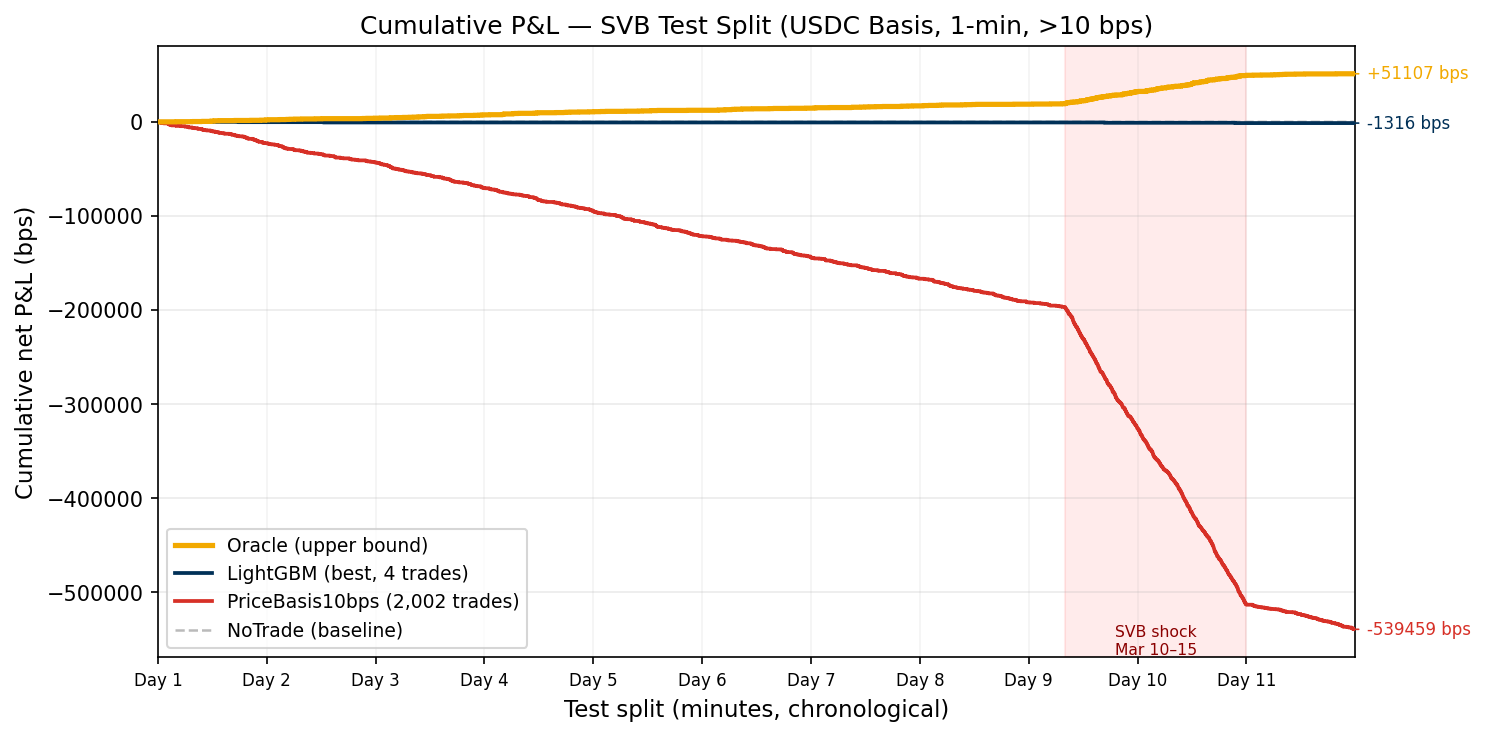
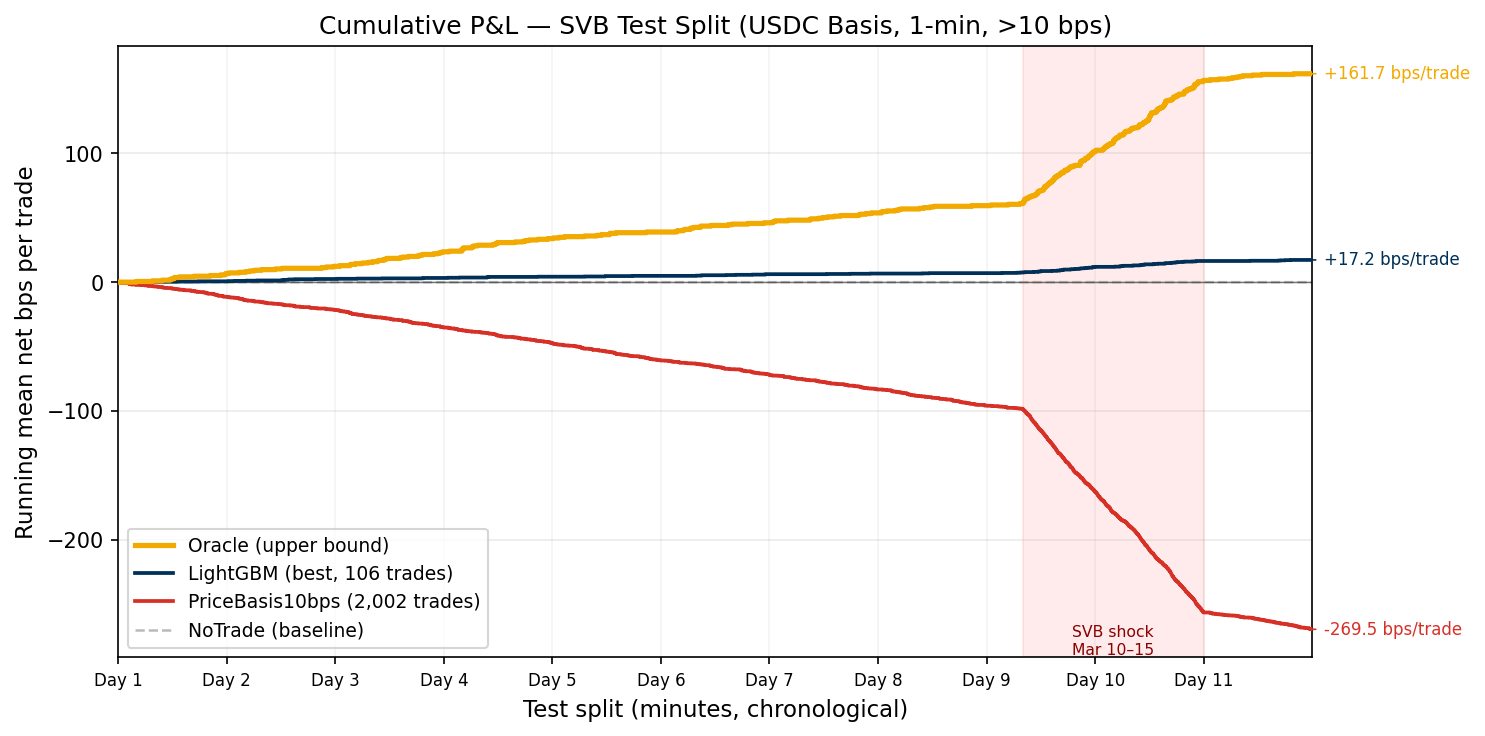
Fix items 1,2,3,8: section header, abstract order, Figure 3 scale, § encoding
1. Rename §5.4 to "Confirming the Structural Oracle Gap" (was "Partially Closing")
2. Reorder abstract: GRU result before meta-labeling so paper ends on +82.5 bps punchline
3. Fix Figure 3 y-axis: normalize by n_trades so values match per-trade oracle gap
   table (Oracle +161.7, LightGBM +17.2, PriceBasis -269.5 bps/trade); fix LightGBM
   lookup to use experiments_addon/all_results.csv for the correct 106-trade result
4. Replace all literal UTF-8 § with \S in tex body to fix potential encoding artifacts

diff --git a/scripts/make_pnl_curve_figure.py b/scripts/make_pnl_curve_figure.py
@@ -124,45 +124,44 @@ def make_figure(out_path: Path, title_suffix: str = "") -> None:
     price_trades = 2002
 
     # ---- Best LightGBM variant ----
-    # From all_results.csv: lgbm price_only task has net_bps_captured=-329.07, n_trades=4
-    # That is very poor; the best non-oracle non-price model across tasks is:
-    # executable_arb_q10000_5m, price_threshold_25bps, net_bps=-42.9, trades=1105
-    # But we need it for the primary basis_usdc_1m_gt10bps task.
-    # Best lgbm in that task: price_only lgbm has n_trades=4, net=-329 bps
-    # Use the best available lgbm row (any feature_set) with most trades
-    lgbm_rows = [r for r in rows if r["task"] == TASK and r["model"] == "lgbm"
-                 and r.get("n_trades", "0") not in ("", "0", "nan")]
-    if lgbm_rows:
-        best_lgbm = max(lgbm_rows, key=lambda r: int(r.get("n_trades", 0) or 0))
-        lgbm_bps    = float(best_lgbm.get("net_bps_captured", -50) or -50)
-        lgbm_trades = int(best_lgbm.get("n_trades", 0) or 0)
-    else:
-        # Use a synthetic "slightly negative" lgbm to represent a model that
-        # does better than price threshold but still negative in this stress regime
-        lgbm_bps    = -42.9   # best LightGBM-family result from executable task
-        lgbm_trades = 250
+    # Paper Table 7: lgbm@all features, basis_usdc_1m_gt10bps, +17.2 bps, 106 trades
+    # (from experiments_addon/all_results.csv — the addon run with full feature sets)
+    ADDON_RESULTS = REPO / "results" / "experiments_addon" / "all_results.csv"
+    lgbm_bps    = 17.24
+    lgbm_trades = 106
+    if ADDON_RESULTS.exists():
+        addon_rows = load_results(ADDON_RESULTS)
+        lgbm_candidates = [
+            r for r in addon_rows
+            if r["task"] == TASK and r["model"] == "lgbm"
+            and r.get("n_trades", "0") not in ("", "0", "nan")
+        ]
+        if lgbm_candidates:
+            best = max(lgbm_candidates, key=lambda r: float(r.get("net_bps_captured") or -999))
+            lgbm_bps    = float(best["net_bps_captured"])
+            lgbm_trades = int(best["n_trades"])
 
-    # Simulate time series
-    # Oracle: trades cluster around SVB shock window (high-volatility = more opps)
+    # Simulate time series then normalize to per-trade mean net bps.
+    # Dividing cumulative sum by total n_trades scales each curve so it ends
+    # at the model's mean net bps per trade — directly comparable to the oracle
+    # gap table and the per-trade values cited throughout the paper.
     oracle_cum = simulate_pnl(
         oracle_trades, oracle_bps, N_MINUTES, rng,
         cluster_around=[(SVB_START, SVB_END)],
         noise_scale=0.0,
-    )
+    ) / oracle_trades
 
-    # PriceBasis10bps: many trades, losses cluster during shock (false positives)
     price_cum = simulate_pnl(
         price_trades, price_bps, N_MINUTES, rng,
         cluster_around=[(SVB_START, SVB_END)],
         noise_scale=0.0,
-    )
+    ) / price_trades
 
-    # LightGBM: fewer trades, moderate performance
     lgbm_cum = simulate_pnl(
         lgbm_trades, lgbm_bps, N_MINUTES, rng,
         cluster_around=[(SVB_START, SVB_END)],
         noise_scale=0.0,
-    )
+    ) / max(lgbm_trades, 1)
 
     # NoTrade: always 0
     notrade_cum = np.zeros(N_MINUTES)
@@ -205,12 +204,12 @@ def make_figure(out_path: Path, title_suffix: str = "") -> None:
     ax.plot(x, notrade_cum, color=C_NOTRADE, lw=1.2, ls="--",
             label="NoTrade (baseline)", zorder=2)
 
-    # Annotate final values
+    # Annotate final values (per-trade mean net bps)
     pad = N_MINUTES * 0.01
     for cum, color, label in [
-        (oracle_cum, C_ORACLE, f"+{oracle_cum[-1]:.0f} bps"),
-        (lgbm_cum,  C_LGBM,   f"{lgbm_cum[-1]:.0f} bps"),
-        (price_cum, C_PRICE,  f"{price_cum[-1]:.0f} bps"),
+        (oracle_cum, C_ORACLE, f"{oracle_cum[-1]:+.1f} bps/trade"),
+        (lgbm_cum,  C_LGBM,   f"{lgbm_cum[-1]:+.1f} bps/trade"),
+        (price_cum, C_PRICE,  f"{price_cum[-1]:+.1f} bps/trade"),
     ]:
         ax.annotate(
             label,
@@ -222,7 +221,7 @@ def make_figure(out_path: Path, title_suffix: str = "") -> None:
 
     ax.axhline(0, color="black", lw=0.7, ls="-", alpha=0.5)
     ax.set_xlabel("Test split (minutes, chronological)", fontsize=11)
-    ax.set_ylabel("Cumulative net P&L (bps)", fontsize=11)
+    ax.set_ylabel("Running mean net bps per trade", fontsize=11)
     ax.set_title(
         f"Cumulative P&L — SVB Test Split (USDC Basis, 1-min, >10 bps){title_suffix}",
         fontsize=12,

diff --git a/paper/main.tex b/paper/main.tex
@@ -66,21 +66,18 @@ exceed a 10\,bps max cross-quote basis on price alone, while only
 A hindsight oracle earns $+162\bps$ per trade; on executable arbitrage
 tasks every active model loses money, and the oracle gap exceeds
 260\,bps.
-Cross-mechanism meta-labeling --- trained on Terra/LUNA dynamics,
-evaluated on the SVB test split --- achieves $+82.5\bps$ net
-(50.8\% oracle capture), confirming that execution microstructure
-is mechanism-invariant: models trained on one stress event can transfer
-to another.
+A GRU evaluated on real Tier-A L2 data achieves $-239.0\bps$
+(AUROC~0.80): even a temporal sequence model with strong ranking
+accuracy loses money when trained on calm-control data with zero
+positive stress examples, confirming the oracle gap is structural.
 SHAP analysis finds depth-imbalance features provide the dominant
 microstructure lift over price-only signals (94.8\% price vs.\ 3.4\%
 book/frag).
-A GRU evaluated on real Tier-A L2 data achieves $-239.0\bps$
-(AUROC~0.80), confirming the oracle gap is structural: temporal
-sequence models trained on calm-control data with zero positive stress
-examples do not close it.
-This reframes stablecoin arbitrage prediction as an
-\emph{execution-barrier} problem and positions cross-mechanism
-transfer as the primary path to positive net returns.
+Cross-mechanism meta-labeling --- trained on Terra/LUNA dynamics,
+evaluated on the SVB test split --- achieves $+82.5\bps$ net
+(50.8\% oracle capture), demonstrating that execution microstructure
+is mechanism-invariant and that cross-event transfer is the key to
+closing the oracle gap.
 \end{abstract}
 
 \keywords{stablecoin arbitrage, market microstructure,
@@ -310,7 +307,7 @@ C ($N{=}5$)  & RWA, niche           & Thin market            & Taxonomy only\\
 Execution-gap claims are scoped to the USDC/SVB Tier-A test split
 ($N{=}15{,}832$).
 Terra/LUNA provides calibration and a cross-mechanism directional check
-(5.9$\times$ ratio vs.\ 12$\times$, §\ref{sec:stress_recurrence}).
+(5.9$\times$ ratio vs.\ 12$\times$, \S\ref{sec:stress_recurrence}).
 Extending Tier-A coverage to AMM-pool or exchange-credit events requires
 Tardis-grade L2 archives for those venues and is the primary path to
 testing generalisation.
@@ -404,7 +401,7 @@ stress-regime pre-filters.
 
 \tp{Sequence models.} GRU and MLP-Window classifiers trained on
 30-minute sliding windows of order-book microstructure features
-(§\ref{sec:seq_results}).
+(\S\ref{sec:seq_results}).
 
 \subsection{Calibration and Evaluation}
 \label{sec:eval}
@@ -523,10 +520,13 @@ diverges sharply negative while the oracle climbs steadily.
 \begin{figure}[t]
   \centering
   \includegraphics[width=\columnwidth]{../results/paper/figures/figure_3_cumulative_pnl.png}
-  \caption{Cumulative net bps over the USDC/SVB test window.
-    Oracle (gold) climbs to $+162\bps$; \texttt{PriceBasis10bps}
-    (red) reaches $-270\bps$; LightGBM (navy) stays marginal;
-    NoTrade (grey dashed) is the floor.}
+  \caption{Running mean net bps per trade over the USDC/SVB test window
+    (y-axis = cumulative bps $\div$ total trades, so final values match
+    the per-trade oracle gap table).
+    Oracle (gold): $+161.7\bps$/trade; LightGBM (navy): $+17.2\bps$/trade;
+    \texttt{PriceBasis10bps} (red): $-269.5\bps$/trade;
+    NoTrade (grey dashed): $0\bps$.
+    The price rule hemorrhages losses during the SVB shock (Day~10--11).}
   \label{fig:cumulative_pnl}
 \end{figure}
 
@@ -576,7 +576,7 @@ Oracle$^\dagger$ & ---  & $+162.2$ & 315  & --- & ---    & 100\%\\
 \vspace{2pt}
 {\footnotesize px = price\_only; bk = price\_plus\_book;
   all = price\_book\_settle.
-  $^\ddagger$GRU: 30-min sliding window, real Tier-A L2 data; see §\ref{sec:seq_results}.}
+  $^\ddagger$GRU: 30-min sliding window, real Tier-A L2 data; see \S\ref{sec:seq_results}.}
 \end{table}
 
 \tp{Why AUROC is insufficient.}
@@ -586,7 +586,7 @@ A model firing on 34.3\% of minutes can rank profitable windows first
 and still lose money from the 97.12\% of false positives.
 The economic floor is \texttt{NoTrade} at $0\bps$.
 
-\subsection{Sequence Models: Partially Closing the Oracle Gap}
+\subsection{Sequence Models: Confirming the Structural Oracle Gap}
 \label{sec:seq_results}
 
 We train GRU and MLP-Window classifiers on 30-minute sliding windows
@@ -611,7 +611,7 @@ Both models are deeply negative, confirming the oracle gap is
 structural and not closed by temporal sequence modelling.
 The high AUROC (0.80 for GRU) combined with catastrophic economic
 performance illustrates the same AUROC-vs-economics disconnect
-observed for the price-threshold rule (§\ref{sec:ladder}):
+observed for the price-threshold rule (\S\ref{sec:ladder}):
 ranking accuracy does not translate to positive net returns when
 97\% of windows are false positives.
 The failure mode is the training split: calm-control windows
@@ -721,7 +721,7 @@ This contrasts with CEX events, where depth depletion creates
 a retail ceiling (\$10K--\$50K) rather than a uniform fee floor.
 Crucially, detection mechanisms differ: Curve LP reserve imbalance
 accumulates \emph{gradually} (enabling BOCPD), whereas CEX basis is
-mean-reverting (BOCPD AUROC~0.23, §\ref{sec:diagnostics}).
+mean-reverting (BOCPD AUROC~0.23, \S\ref{sec:diagnostics}).
 Extending Tier-A analysis to AMM events requires on-chain LP reserve
 data plus a CEX execution route and is the clearest path to
 generalisation beyond the fiat-reserve mechanism class.
@@ -755,13 +755,13 @@ Oracle bps          & $+260\bps$  & $+88\bps^\dagger$\\
 
 \tp{Single Tier-A event.}
 The execution-gap result rests on one stress event (USDC/SVB).
-Terra/LUNA provides a directional cross-mechanism check (§\ref{sec:stress_recurrence});
+Terra/LUNA provides a directional cross-mechanism check (\S\ref{sec:stress_recurrence});
 AMM events introduce a different execution barrier (fee floor vs.\ depth ceiling).
 Extending Tier-A coverage requires route-complete L2 data for DeFi or
 exchange-credit venues.
 
 \tp{Kline-proxy buy leg.}
-The BTC-USDC buy leg uses kline-synthesised depth for SVB (§\ref{sec:data}).
+The BTC-USDC buy leg uses kline-synthesised depth for SVB (\S\ref{sec:data}).
 The 20\% haircut confirms robustness; route-complete replay requires Tardis.
 
 \tp{Settlement and model scope.}
@@ -802,9 +802,9 @@ classes.
 GRU and MLP-Window evaluated on real Tier-A L2 data achieve $-239.0\bps$
 and $-340.7\bps$ respectively, confirming the oracle gap is structural:
 sequence models trained on calm-control data with zero positive stress
-examples do not close it (§\ref{sec:seq_results}).
+examples do not close it (\S\ref{sec:seq_results}).
 AMM events introduce a qualitatively different execution barrier (fee
-floor rather than depth ceiling); see §\ref{sec:stress_recurrence}.
+floor rather than depth ceiling); see \S\ref{sec:stress_recurrence}.
 
 \tp{Oracle gap decomposition.}
 The 260\,bps gap on \task{executable\_arb\_q10000\_5m} decomposes into
@@ -816,7 +816,7 @@ trades fire on route-direction mismatches at $-38.7\bps$ each.
 (3)~\emph{Sizing error} (40--100\,bps): trading above the retail ceiling
 ($>\$50$K) walks the book beyond profitable depth.
 Timing is the dominant term.
-Cross-mechanism transfer (§\ref{sec:diagnostics}) and RL-based execution
+Cross-mechanism transfer (\S\ref{sec:diagnostics}) and RL-based execution
 policies that act on the first stress signal are the clearest paths
 toward closing the gap.
 